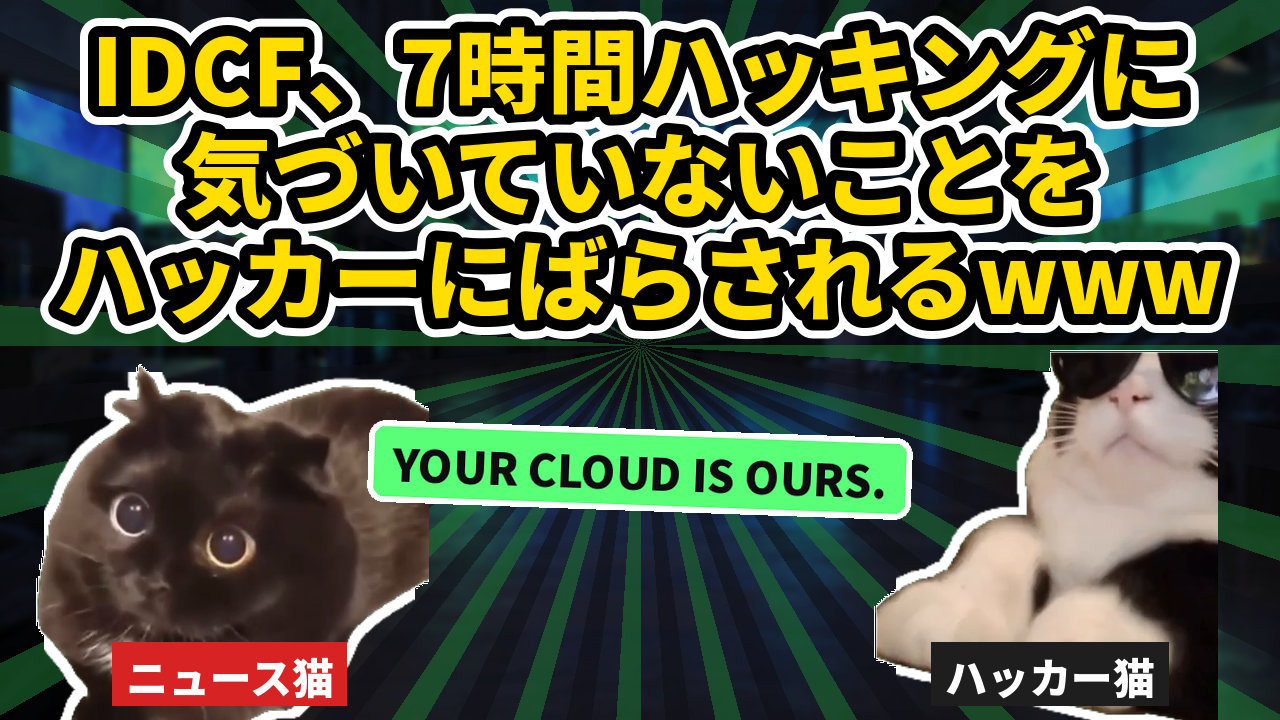
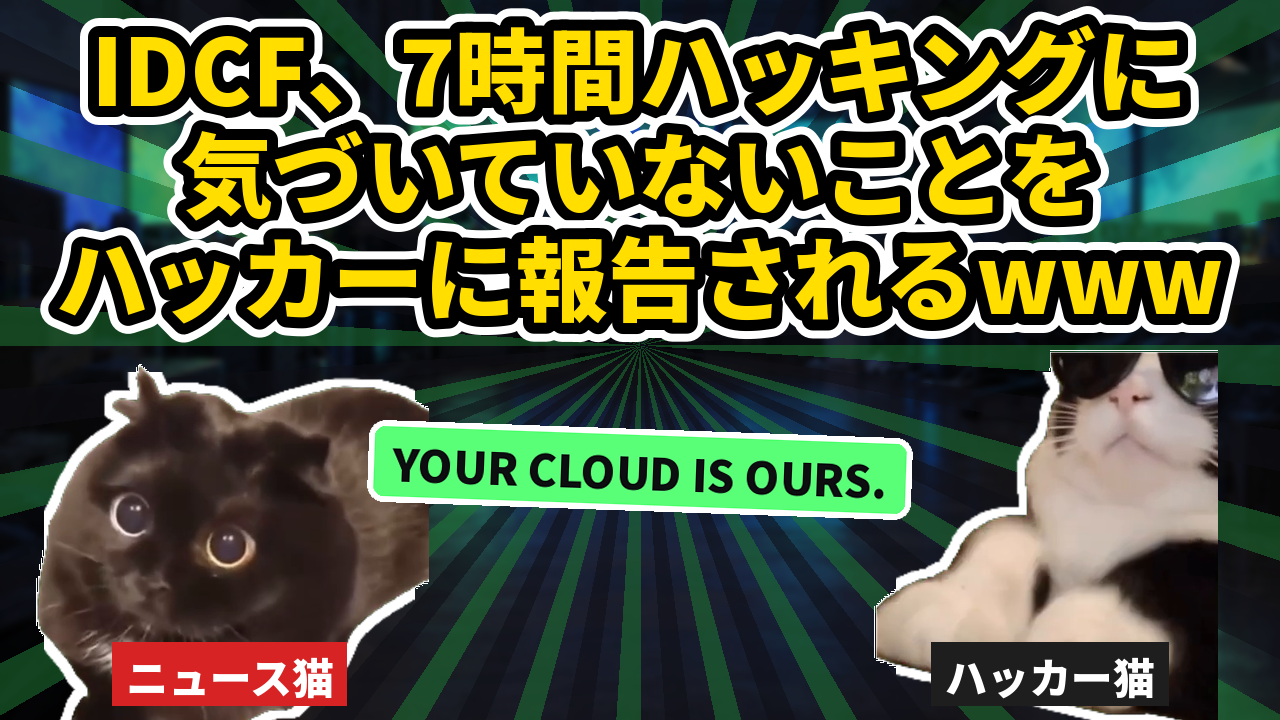
10本目サムネ：「ばらされる」→「報告される」
Claude-Session: https://claude.ai/code/session_011g9CsrfFD5YswfNSvNDW39

Changed region(s): [[0.4062, 0.3056, 0.5625, 0.4889]]

diff --git a/catmeme/make_thumb_10.py b/catmeme/make_thumb_10.py
@@ -31,7 +31,7 @@ THUMB_E = dict(THUMB, top="", big="", sub="",
                cat_h=380,   # 猫の顔に文字が被らないよう、猫を小さめにして文字を上に寄せる（10/11）
                lines=(("IDCF、7時間ハッキングに", 66, 92, YELLOW, BLACK, WHITE),
                       ("気づいていないことを", 170, 92, YELLOW, BLACK, WHITE),
-                      ("ハッカーにばらされるwww", 274, 92, YELLOW, BLACK, WHITE)))
+                      ("ハッカーに報告されるwww", 274, 92, YELLOW, BLACK, WHITE)))
 # 同じ文言から「ｗｗｗ」だけ外した案（被害を受けた会社を笑う形にしない）
 THUMB_D = dict(THUMB_C, sub="", big="ハッカーにばらされる")
 

diff --git a/catmeme/scripts/10_idcf_youtube.md b/catmeme/scripts/10_idcf_youtube.md
@@ -6,7 +6,7 @@
 3. 【猫ミーム】クラウドに預けたら安心じゃないの？IDCFランサムウェア攻撃をゆるっと整理 #猫ミーム
 
 ## サムネ
-- thumbs/10_idcf_e.png（release/10_idcf.png と同じ）：「IDCF、7時間ハッキングに気づいていないことをハッカーにばらされるwww」（wwwもほかの文字と同じ黄色・同じ書体）＋札「YOUR CLOUD IS OURS.」。「ハッカーの主張」は概要欄の「ご注意」でカバー（ユーザー指定 10/11）
+- thumbs/10_idcf_e.png（release/10_idcf.png と同じ）：「IDCF、7時間ハッキングに気づいていないことをハッカーに報告されるwww」（wwwもほかの文字と同じ黄色・同じ書体）＋札「YOUR CLOUD IS OURS.」。「ハッカーの主張」は概要欄の「ご注意」でカバー（ユーザー指定 10/11）
 
 ## 説明文
 
